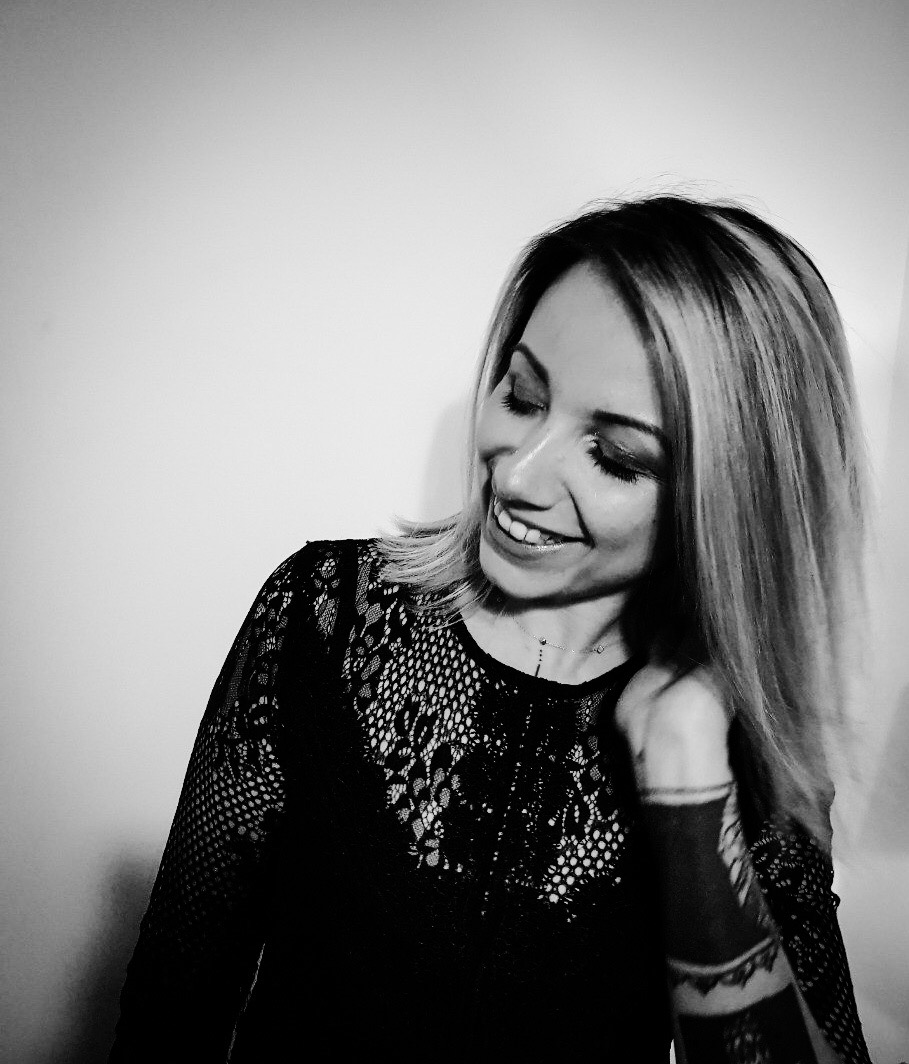
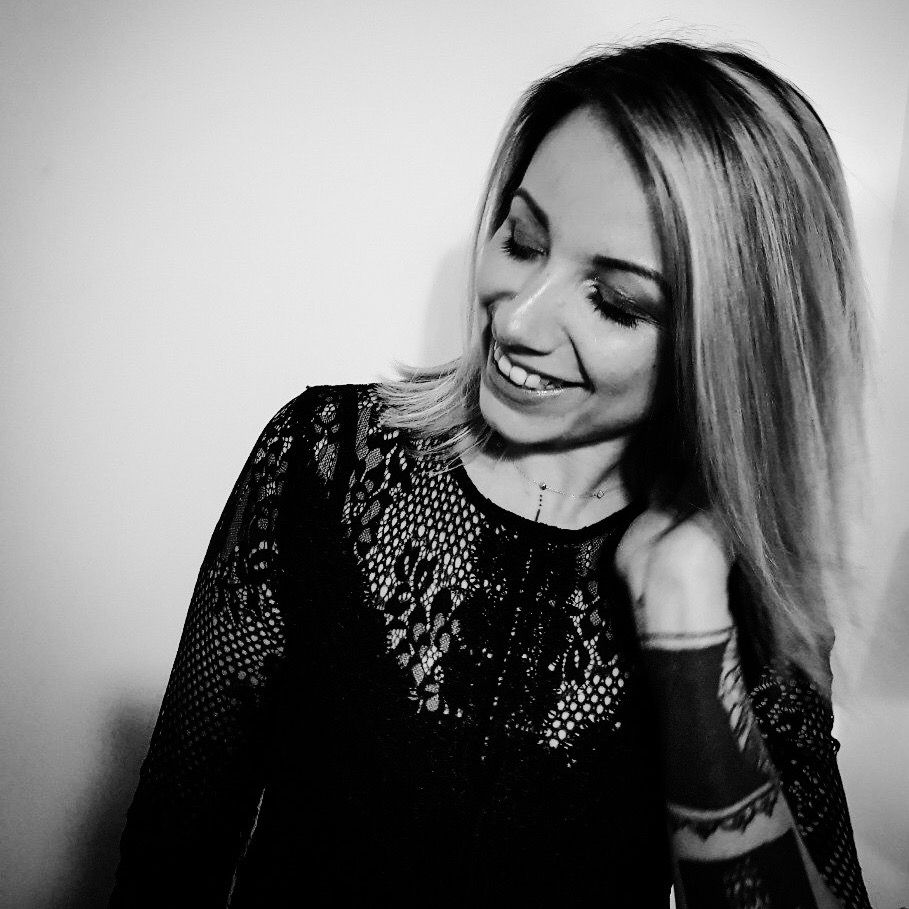
final draft of home page with added parallax, improved margins and indentations

diff --git a/src/style/index.css b/src/style/index.css
@@ -37,7 +37,7 @@
 a {
     color: rgb(234, 61, 61);
     font-weight: 400;
-    text-decoration: underline;
+    text-decoration: none;
 }
 
 .Hero, .HeroGroup_about {
@@ -49,9 +49,9 @@ a {
     /* max-width: 500px; */
     margin: 0 auto;
     color: white;
-    padding: 150px 50px 250px 30px;
+    padding: 150px 50px 150px 30px;
     text-align: left;
-
+    box-shadow: 0 6px 10px 0 rgba(13,13,13,0.50);
 }
 
 @media (max-width: 640px) {
@@ -125,8 +125,8 @@ a {
     grid-template-columns: repeat(3,auto);
     /* grid-auto-columns: 33.3%; */
     align-items: center;
-    grid-row-gap: 20px;
-    grid-column-gap: 10px;
+    row-gap: 20px;
+    grid-column-gap: 0px;
     justify-items: center;
     /* padding-bottom: 80px; */
     padding: 50px 0px 100px 0px; 
@@ -172,7 +172,7 @@ a {
     /* max-width: 500px; */
     margin: 0 auto;
     color: rgba(255, 255, 255, 0.8);
-    padding: 80px 0px 250px 0px;
+    padding: 80px 40px 180px 40px;
     margin-left: 130px !important;
     margin-right: 130px !important; 
     animation: HeroAnimation 3s 0.2s forwards; /*forwards stops at the end of the animation and has to be applied here, not in the animation itself*/
@@ -180,7 +180,10 @@ a {
     display: grid;
     grid-template-columns: repeat(2, auto);
     grid-column-gap: 50px;
-
+    margin-top: -233px;
+    background-color: #0d0d0d;
+    box-shadow: 0 6px 10px 0 rgba(13,13,13,0.50);
+    border-radius: 4px;
 }
 
 .SectionGroup p {
@@ -200,6 +203,11 @@ a {
     margin-left: 130px !important;
     margin-right: 130px !important; 
     color: rgba(255, 255, 255, 0.8);
+    margin-top: -233px;
+    background-color: #0d0d0d;
+    box-shadow: 0 6px 10px 0 rgba(13,13,13,0.50);
+    padding: 40px 40px 0px 40px;
+    border-radius: 4px;
 }
 
 .LastSectionGroup {
@@ -208,7 +216,7 @@ a {
     color: rgba(255, 255, 255, 0.8);
     margin-left: 130px !important;
     margin-right: 130px !important; 
-    padding: 50px 0px 500px 0px;
+    padding: 40px 40px 250px 40px;
     animation: HeroAnimation 3s 0.2s forwards; /*forwards stops at the end of the animation and has to be applied here, not in the animation itself*/
     text-align: left;
     display: grid;
@@ -233,7 +241,7 @@ a {
 }   
 
 .SecondarySection {
-    padding: 30px 0px 80px 0px; 
+    padding: 30px 0px 150px 0px; 
     display: grid;
     grid-auto-columns: auto;
     grid-column-gap: 50px;
@@ -264,7 +272,7 @@ h6 {
     background-repeat: no-repeat;
     background-position: center 35%;
     margin-bottom: 80px;
-    height: 200px;
+    height: 300px;
     position: relative;
     background-attachment: fixed;
 }
@@ -281,3 +289,23 @@ h6 {
     background-attachment: fixed;
 }
 
+.SidePortrait {
+    background: url("/images/portrait.JPEG");
+    width: 150px;
+    height: 150px;
+    border-radius: 100px;
+    background-size: cover;
+    background-position: center;
+}
+
+.BannerLast {
+    background: url('/images/background_white.png');
+    opacity: .8;
+    background-size: cover;
+    background-repeat: no-repeat;
+    background-position: center 35%;
+    padding-bottom: 500px;
+    height: 300px;
+    position: relative;
+    background-attachment: fixed;
+}

diff --git a/src/pages/index.js b/src/pages/index.js
@@ -8,7 +8,7 @@ import '../style/index.css'
 const IndexPage = () => (
   <Layout>
         <div>
-          <div className="BannerSlim"></div>
+          {/* <div className="BannerSlim"></div> */}
         <div className="Hero"> 
           <div className="HeroGroup">
         <h1>Lorem ipsum</h1>
@@ -19,6 +19,7 @@ const IndexPage = () => (
         <img src="/images/ghost.gif" width="150px"></img>
         </div>
         </div>  
+        <div className="Banner"></div>
 <div className="CardSection">
 <h2>Case studies</h2>
 <p>I am a Product Designer || Problem solver based in London.
@@ -29,9 +30,9 @@ const IndexPage = () => (
       ))}
 </div>
 <div className="">
-    <h2>Other projects</h2>
-      <p>A little more about me to fill the void and some more words and a link to the about page.</p>
+    {/* <h2>Other projects</h2> */}
   <div className="SecondarySection">
+  <h2>Other projects and might be interesting about me and what I did</h2>
     <div className="listItem">
     <a href="alidays-style">Alidays App</a>
     <h4>A little copy here about what it was, what I did for the project and such</h4>
@@ -50,7 +51,7 @@ const IndexPage = () => (
   </div>
 </div>
 </div>
-  <div className="BannerSlim"></div>
+  <div className="Banner"></div>
 <div> 
    <div className="SectionGroup">
         <div>
@@ -62,18 +63,17 @@ const IndexPage = () => (
         </div>
     </div>
   </div>
-        <div> 
+  
    <div className="LastSectionGroup">
         <div>
         <h2>About me</h2>
         <p>I am a Product Designer || Problem solver based in London.
-        <br></br>I help digital products move from <a href="about">about</a> problems to solutions.<br></br> A little more about me to fill the void and some more words and a link to the <a href="about">about</a> page.</p></div>
-        <div className="">
-        <img src="/images/portrait.JPEG" width="150px"></img>
+        <br></br>I help digital products move from <a href="about">about</a> problems to solutions.<br></br> A little more about me to fill the void and some more words and a link to the <a href="about">about</a> page.</p>
+        </div>
+        <div className="SidePortrait">
         </div>
         </div>
-        </div>
-        
+        <div className="BannerLast"></div>
       </div>
 
       

diff --git a/src/style/footer.css b/src/style/footer.css
@@ -8,21 +8,25 @@
     color: white;
     text-align: center;
     background-color: #0d0d0d;
-    padding: 20px;
+    padding: 100px 20px 50px 20px;
     display: block;
-    padding-bottom: 50px; 
     font-family: 'Raleway', sans-serif;
 }
 
 
 .FooterGroup {
-    max-width: 500px;
+    max-width: 580px;
     margin: 0 auto;
+    padding: 40px 40px 40px 40px;
     display: grid; 
     grid-template-columns: repeat(5, auto); /*using this in lieu of writing auto 5 times*/
     gap: 10px 10px 10px 10px 10px 10px;
     align-items: center;
     justify-items: center;
+    margin-top: -150px;
+    background-color: #0d0d0d;
+    box-shadow: 0 6px 10px 0 rgba(13,13,13,0.50);
+    border-radius: 4px;
 }
 
 .FooterGroup img {
@@ -31,15 +35,14 @@
 }
 
 .Footer h6 {
-    left: 0;
-    right: 0;
+    /* left: 0;
+    right: 0; */
     font-weight: 300;
     font-size: 14px;
     font-family: 'Raleway', sans-serif;
     font-weight: 500;
     line-height: 1.5;
     opacity: .6;
-
     }
     
 

diff --git a/src/components/footer.js b/src/components/footer.js
@@ -16,7 +16,7 @@ class Footer extends React.Component {
                     <a href="https://medium.com/@francine.negro" target="blank">  <img src="/images/icons/Medium.svg"></img></a>
                 </div>
                 <div> 
-                    <h6>ALL CONTENT IS NOT AVAILABLE FOR PERSONAL USE OR DOWNLOAD, UNLESS OTHERWISE STATED.<br></br>PORTFOLIO BY ME, CODED USING GATSBY AND REACT<br></br>Copyright Francesca Negro 2018.</h6></div>
+                    <h6>ALL CONTENT IS NOT AVAILABLE FOR PERSONAL USE OR DOWNLOAD, UNLESS OTHERWISE STATED.<br></br>PORTFOLIO BY ME, CODED USING GATSBY AND REACT<br></br>Copyright Francesca Negro 2019.</h6></div>
                 </div>
         )
     }

diff --git a/src/components/card.js b/src/components/card.js
@@ -4,7 +4,7 @@ import { Link } from '@reach/router';
 
 const CardContainer = styled.div`
 min-width: 260px;
-width:390px;
+width:320px;
 height: 300px;
 background-color:rgba(0, 0, 0, 0.5);
 background: linear-gradient( rgba(0, 0, 0, 0) 0%, rgba(0, 0, 0, 0.9) 100%);
@@ -12,7 +12,7 @@ background: url(${props => props.image}) ; /*pass the image in the props*/
 color: white;   
 background-size: cover;
 border-radius:4px;
-padding: 20px;
+padding: 15px;
 // margin: 10px;
 cursor: pointer;
 font-family: 'Raleway', sans-serif;
